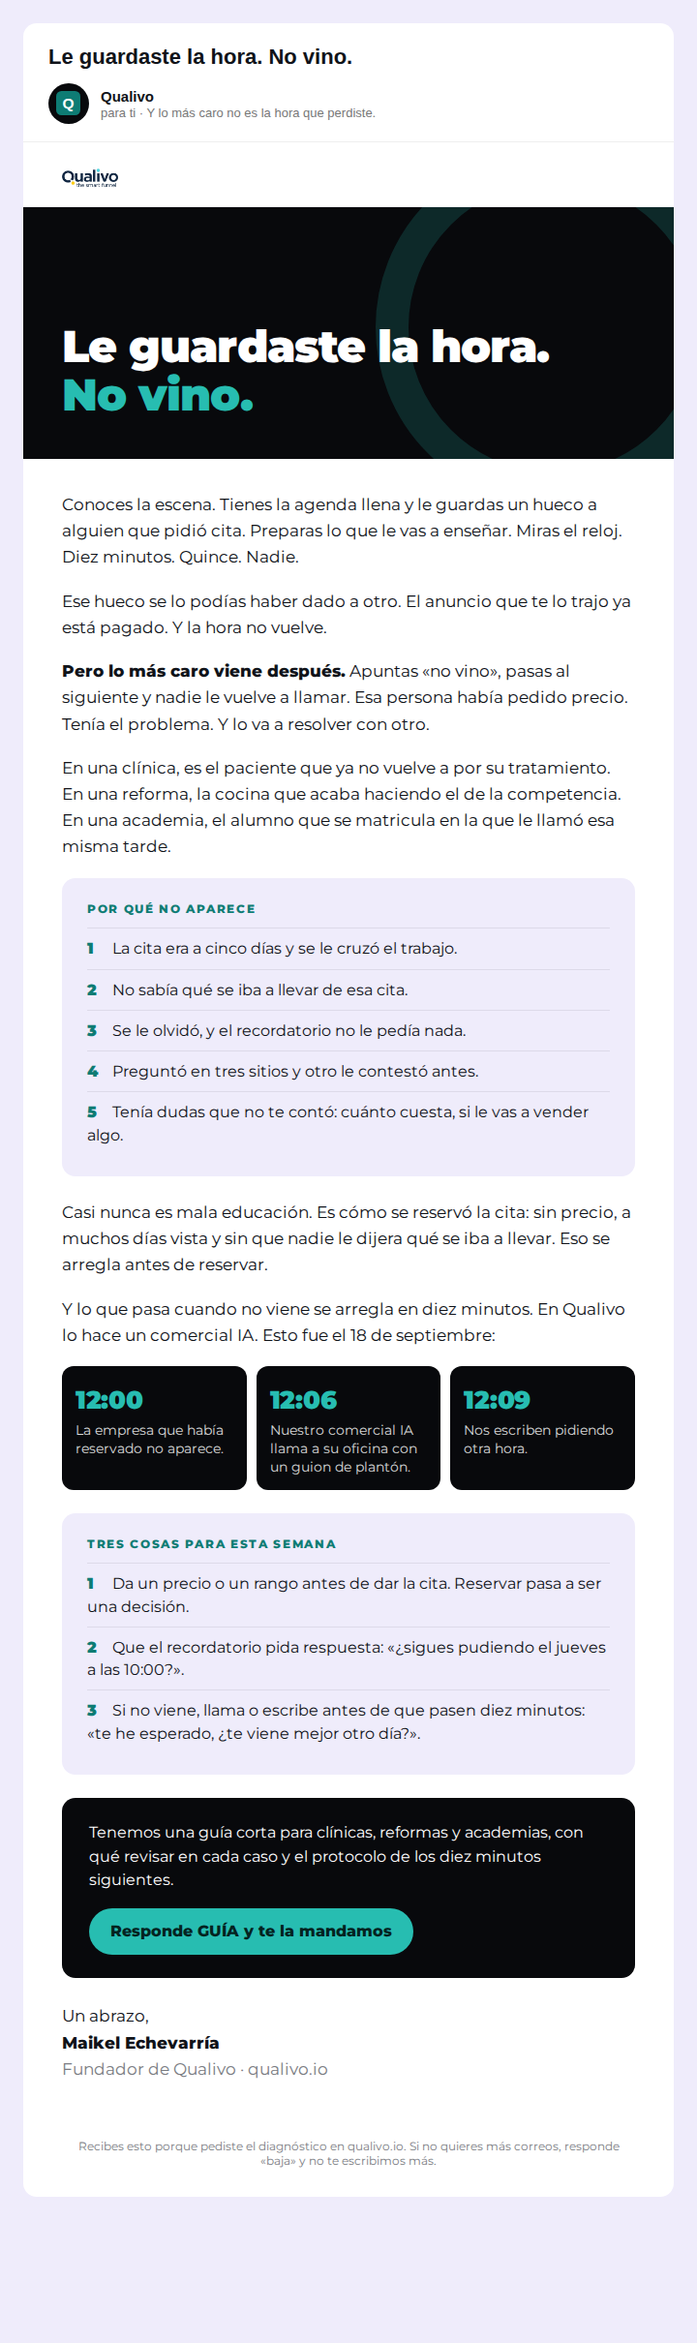
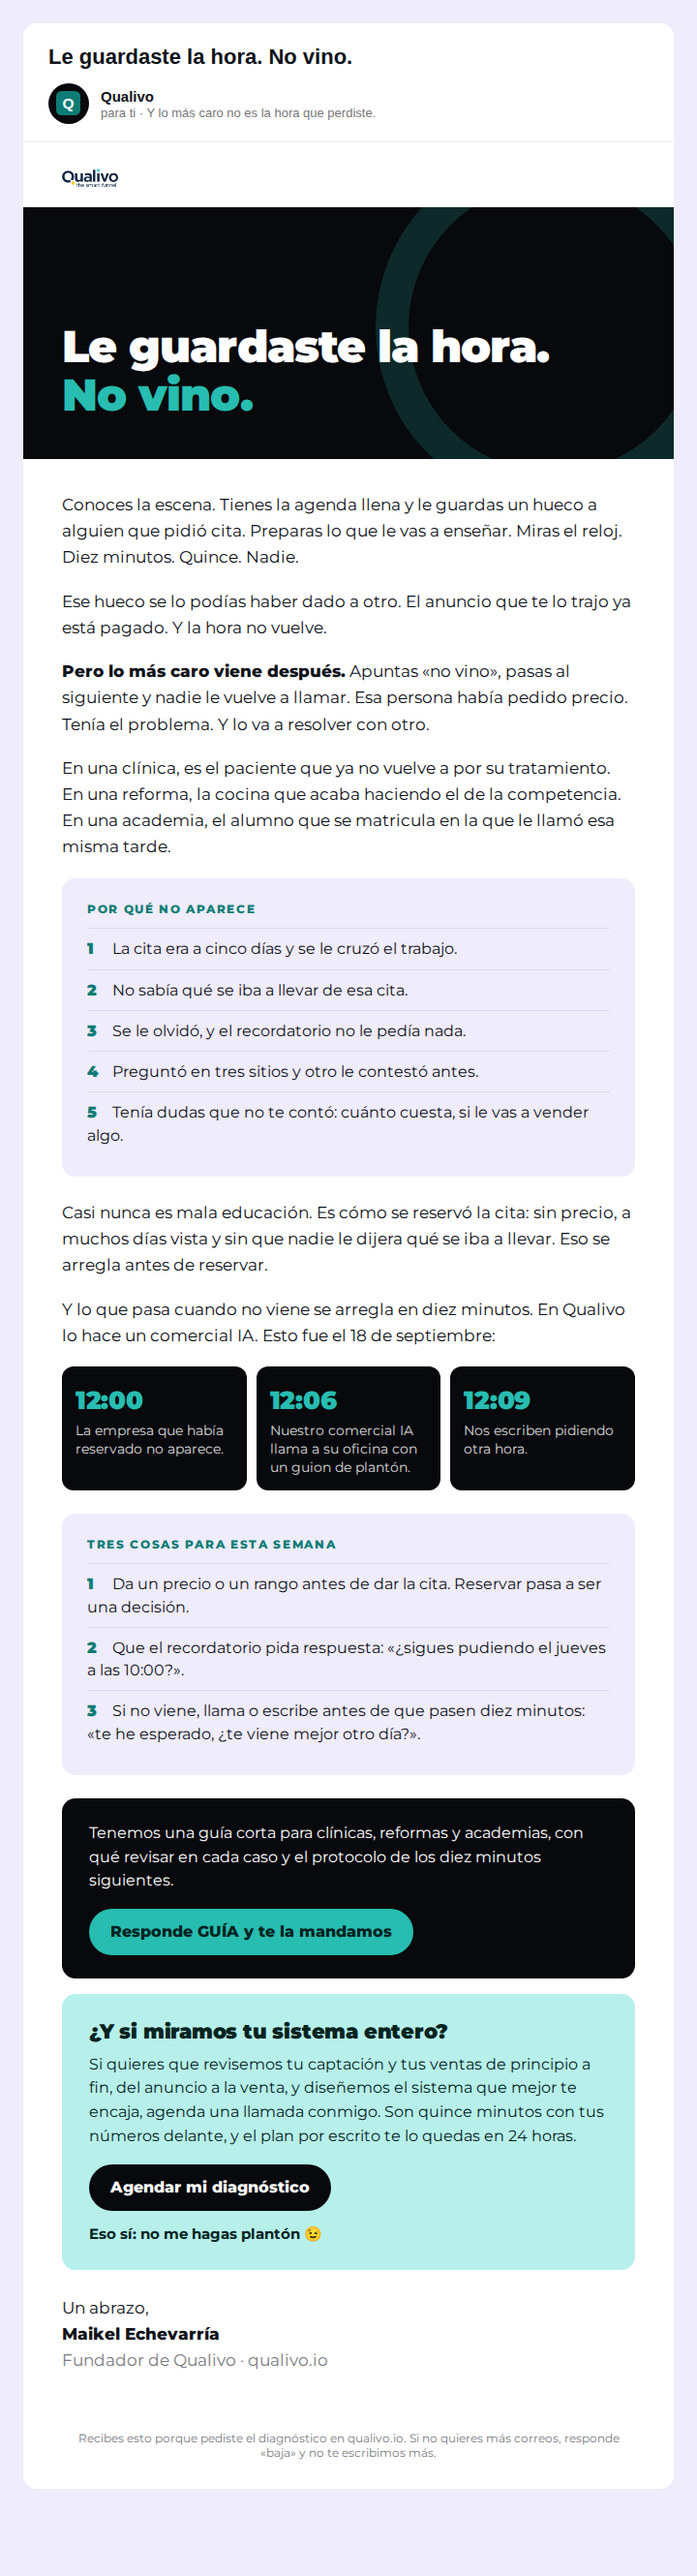
Newsletter de plantones v4: bloque para agendar el diagnóstico con Maikel y el guiño del plantón
Claude-Session: https://claude.ai/code/session_015zPzMSu62cfqSPYhENKK62

diff --git a/content/newsletter/maqueta/2026-09-25-plantones.html b/content/newsletter/maqueta/2026-09-25-plantones.html
@@ -30,6 +30,10 @@ body{background:#EFECFB;font-family:Montserrat,Arial,sans-serif;color:#101319;wi
 .cta .btn{display:inline-block;margin-top:16px;background:#27BDB1;color:#04231F;font-weight:800;padding:12px 22px;border-radius:999px;font-size:15.5px}
 .firma{margin-top:26px}
 .pie{font-size:12px;color:#7A7C82;text-align:center;padding:0 40px 30px}
+.cta2{background:#B7F0EA;color:#04231F;border-radius:14px;padding:26px 28px;margin-top:16px;font-size:16px;line-height:1.55}
+.cta2 .tt{font-weight:900;font-size:21px;line-height:1.25;margin-bottom:8px;letter-spacing:-.01em}
+.cta2 .btn2{display:inline-block;margin-top:16px;background:#08090C;color:#fff;font-weight:800;padding:12px 22px;border-radius:999px;font-size:15.5px}
+.cta2 .wink{display:block;margin-top:12px;font-size:15px;font-weight:700}
 </style></head><body>
 <div class="inbox">
   <div class="subj">Le guardaste la hora. No vino.</div>
@@ -65,6 +69,7 @@ body{background:#EFECFB;font-family:Montserrat,Arial,sans-serif;color:#101319;wi
       <div class="i"><b>3</b>Si no viene, llama o escribe antes de que pasen diez minutos: «te he esperado, ¿te viene mejor otro día?».</div>
     </div>
     <div class="cta">Tenemos una guía corta para clínicas, reformas y academias, con qué revisar en cada caso y el protocolo de los diez minutos siguientes.<br><span class="btn">Responde GUÍA y te la mandamos</span></div>
+    <div class="cta2"><div class="tt">¿Y si miramos tu sistema entero?</div>Si quieres que revisemos tu captación y tus ventas de principio a fin, del anuncio a la venta, y diseñemos el sistema que mejor te encaja, agenda una llamada conmigo. Son quince minutos con tus números delante, y el plan por escrito te lo quedas en 24 horas.<br><span class="btn2">Agendar mi diagnóstico</span><span class="wink">Eso sí: no me hagas plantón 😉</span></div>
     <p class="firma">Un abrazo,<br><b>Maikel Echevarría</b><br><span style="color:#7A7C82">Fundador de Qualivo · qualivo.io</span></p>
   </div>
   <div class="pie">Recibes esto porque pediste el diagnóstico en qualivo.io. Si no quieres más correos, responde «baja» y no te escribimos más.</div>

diff --git a/content/newsletter/2026-09-25-plantones.md b/content/newsletter/2026-09-25-plantones.md
@@ -9,7 +9,7 @@
 
 ## Maqueta (24-sep)
 
-Versión de correo, la que manda: `content/newsletter/maqueta/2026-09-25-plantones.html` (imagen: `maqueta/2026-09-25-plantones.png`). **v2 (24-sep, Maikel: «más enfocada al dolor del cliente» y «los colores de qualivo.io son diferentes»):** empieza en la escena del lector (le guardaste la hora, no vino), agita con lo que cuesta de verdad (nadie le vuelve a llamar y lo resuelve con otro), cara del problema en clínica, reforma y academia, los cinco motivos, el caso del 18-sep como prueba, tres cosas para esta semana y un solo botón. Colores y tipografía de la web: blanco, tinta #101319, verde azulado #27BDB1 y #0E7C74, lila #EFECFB, Montserrat, logo de Qualivo. **v3 (24-sep, Maikel: «una cosa es mi Instagram personal y otra la newsletter de Qualivo»):** la envía Qualivo, habla en «nosotros», firma Maikel como fundador y la cabecera es de marca (sin la foto del carrusel del Instagram personal). El texto de abajo es una versión anterior: vale la maqueta.
+Versión de correo, la que manda: `content/newsletter/maqueta/2026-09-25-plantones.html` (imagen: `maqueta/2026-09-25-plantones.png`). **v2 (24-sep, Maikel: «más enfocada al dolor del cliente» y «los colores de qualivo.io son diferentes»):** empieza en la escena del lector (le guardaste la hora, no vino), agita con lo que cuesta de verdad (nadie le vuelve a llamar y lo resuelve con otro), cara del problema en clínica, reforma y academia, los cinco motivos, el caso del 18-sep como prueba, tres cosas para esta semana y un solo botón. Colores y tipografía de la web: blanco, tinta #101319, verde azulado #27BDB1 y #0E7C74, lila #EFECFB, Montserrat, logo de Qualivo. **v3 (24-sep, Maikel: «una cosa es mi Instagram personal y otra la newsletter de Qualivo»):** la envía Qualivo, habla en «nosotros», firma Maikel como fundador y la cabecera es de marca (sin la foto del carrusel del Instagram personal). **v4 (24-sep):** segundo bloque antes de la firma, pedido por Maikel: «¿Y si miramos tu sistema entero?», agenda con él (botón al diagnóstico, qualivo.io/diagnostico) y el guiño «Eso sí: no me hagas plantón 😉». El texto de abajo es una versión anterior: vale la maqueta.
 
 ## Asunto y preheader
 
